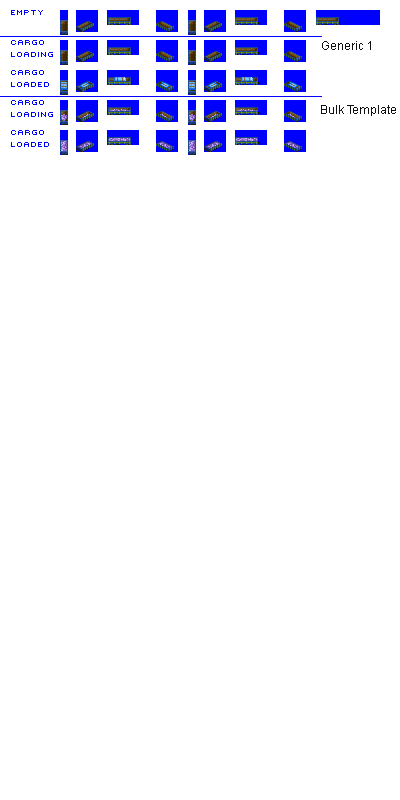
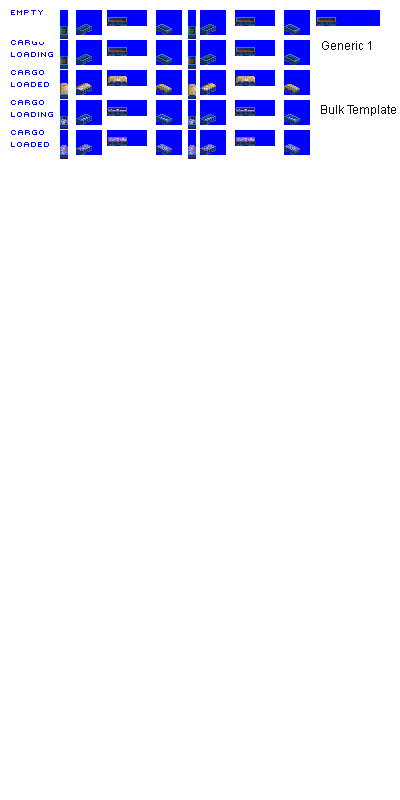
Fix: Antelope NG gen 1 open car length and spritesheet

Changed region(s): [[0.15, 0.0, 0.84, 0.2188]]

diff --git a/src/vehicles/open_cars.py b/src/vehicles/open_cars.py
@@ -277,13 +277,12 @@ def main():
                         wagon_generation = 1,
                         replacement_id = '-none',
                         intro_date = 1950,
-                        vehicle_life = 40,
-                        use_legacy_spritesheet = True)
+                        vehicle_life = 40)
 
     consist.add_unit(Wagon(consist = consist,
                             capacity_freight = 55,
                             weight = 17,
-                            vehicle_length = 6))
+                            vehicle_length = 5))
 
     graphics_processors = get_graphics_processors('open_car_antelope_gen_1_template.png')
 
